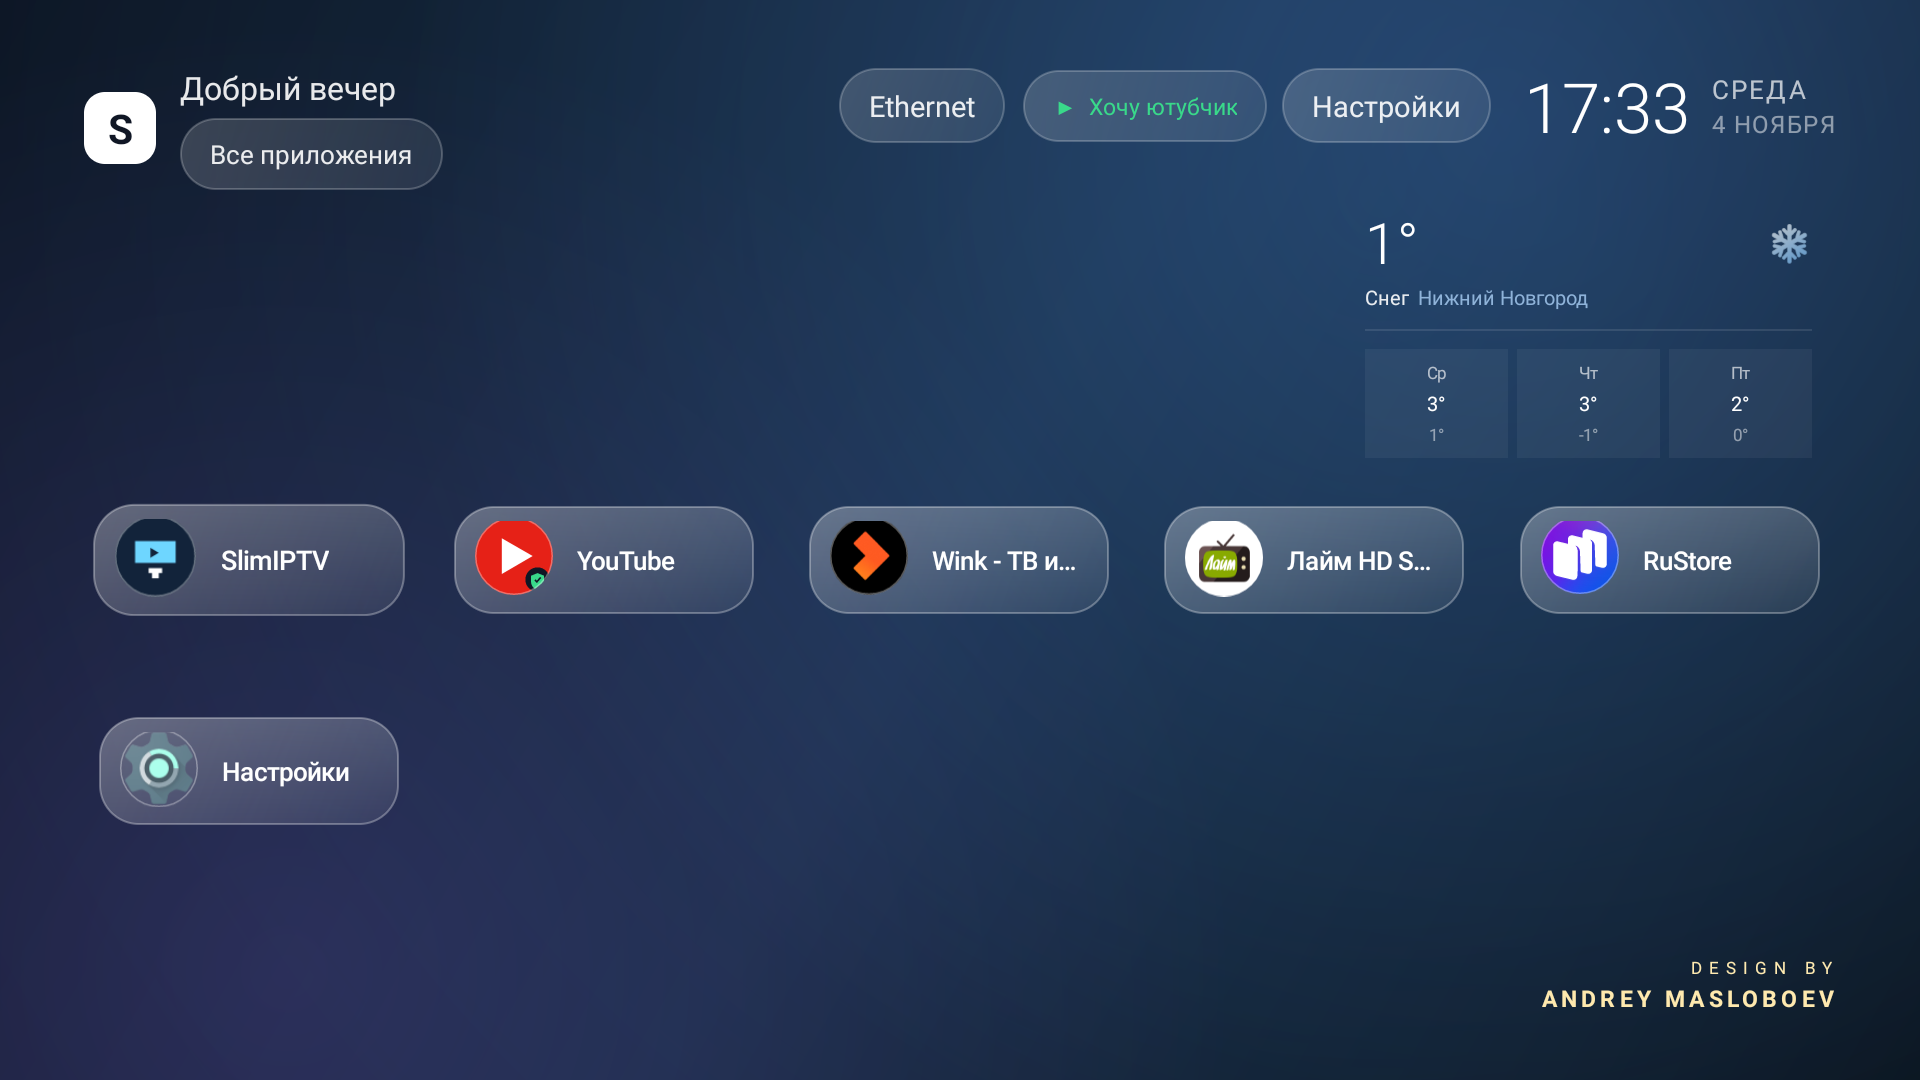
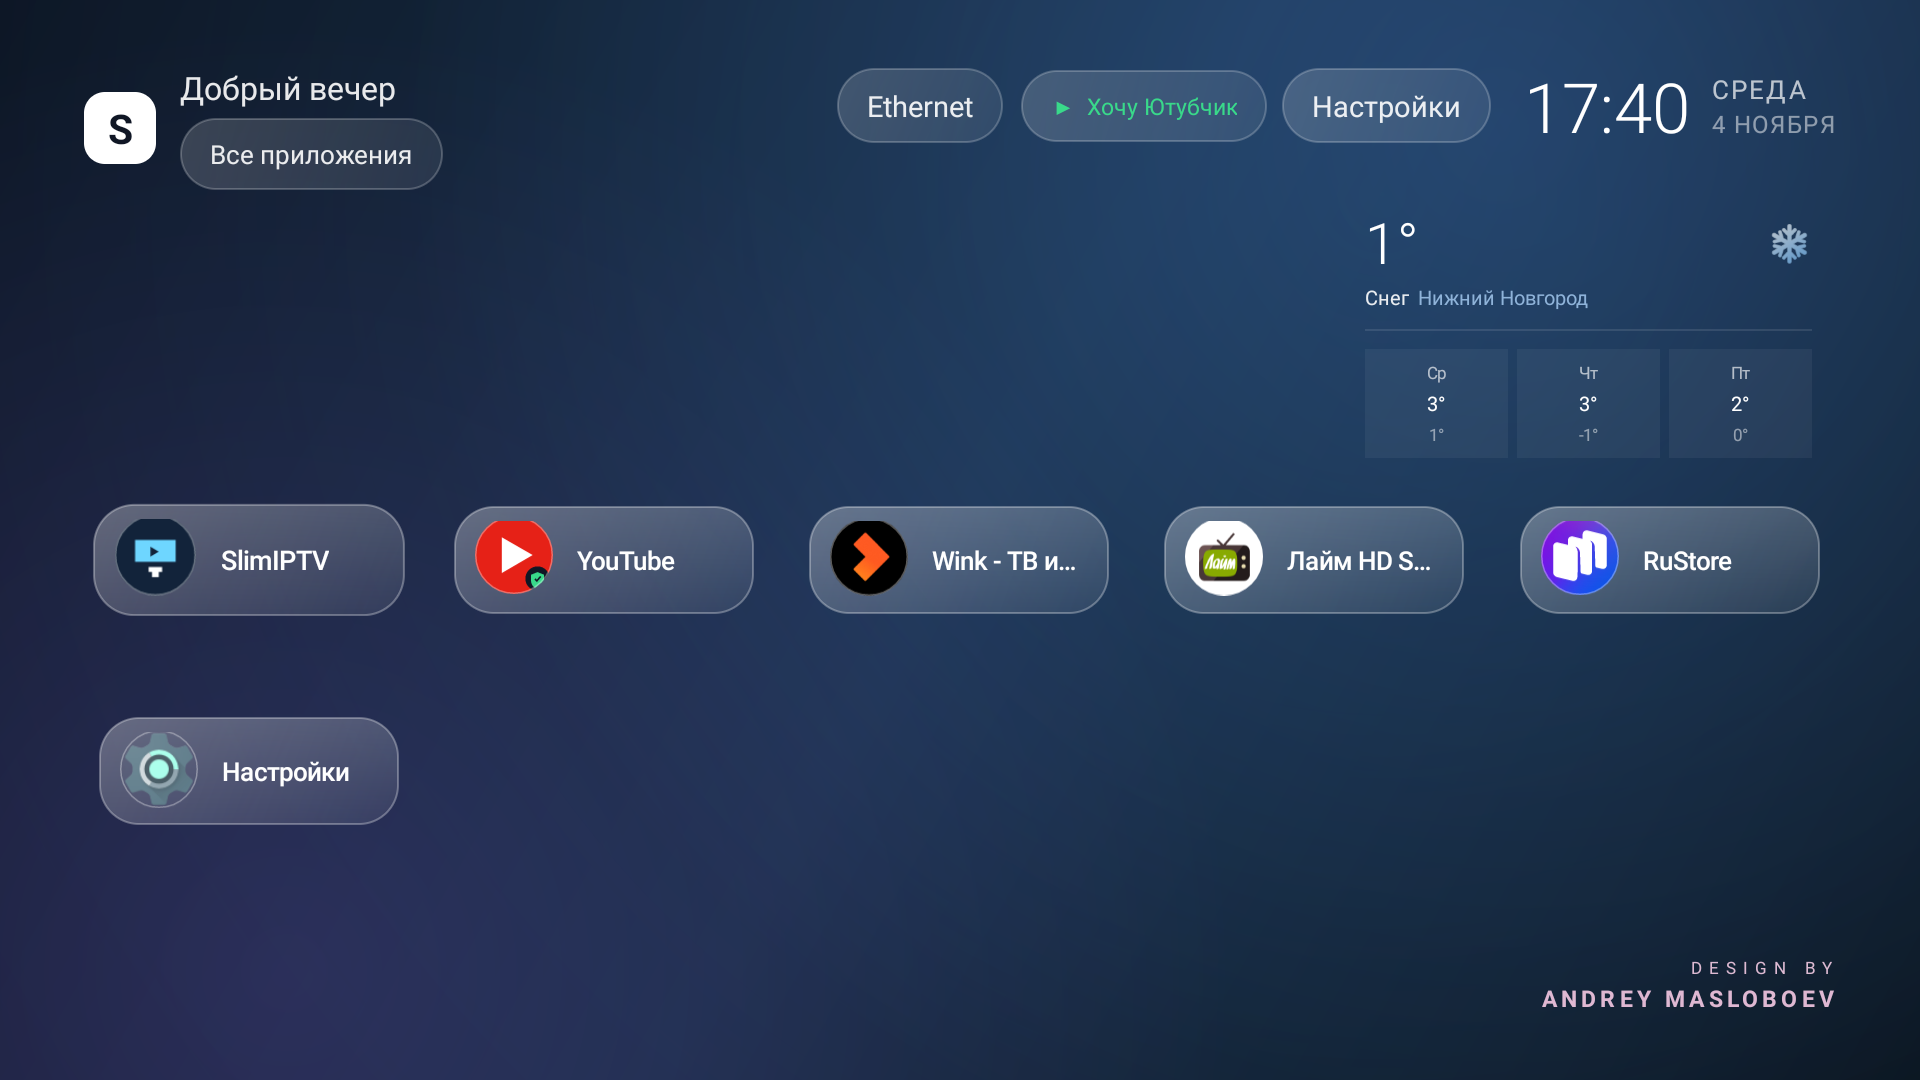
SlimHome 3.5: кнопка «▶ Хочу Ютубчик»

diff --git a/app/src/main/java/com/slimhome/launcher/MainActivity.java b/app/src/main/java/com/slimhome/launcher/MainActivity.java
@@ -650,7 +650,7 @@ public class MainActivity extends Activity {
                 }
             }
         } catch (Throwable ignored) { }
-        tvVpn.setText("▶  Хочу ютубчик");
+        tvVpn.setText("▶  Хочу Ютубчик");
         tvVpn.setTextColor(on ? Color.parseColor("#FF39D98A") : Color.parseColor("#FFFF6B6B"));
     }
 
